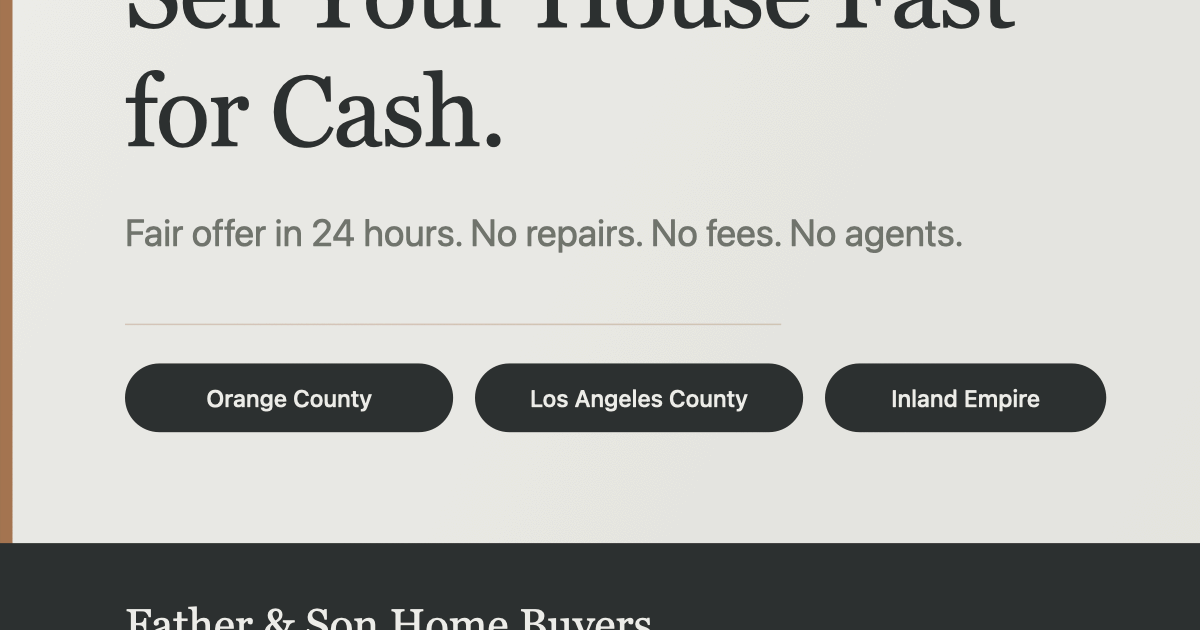
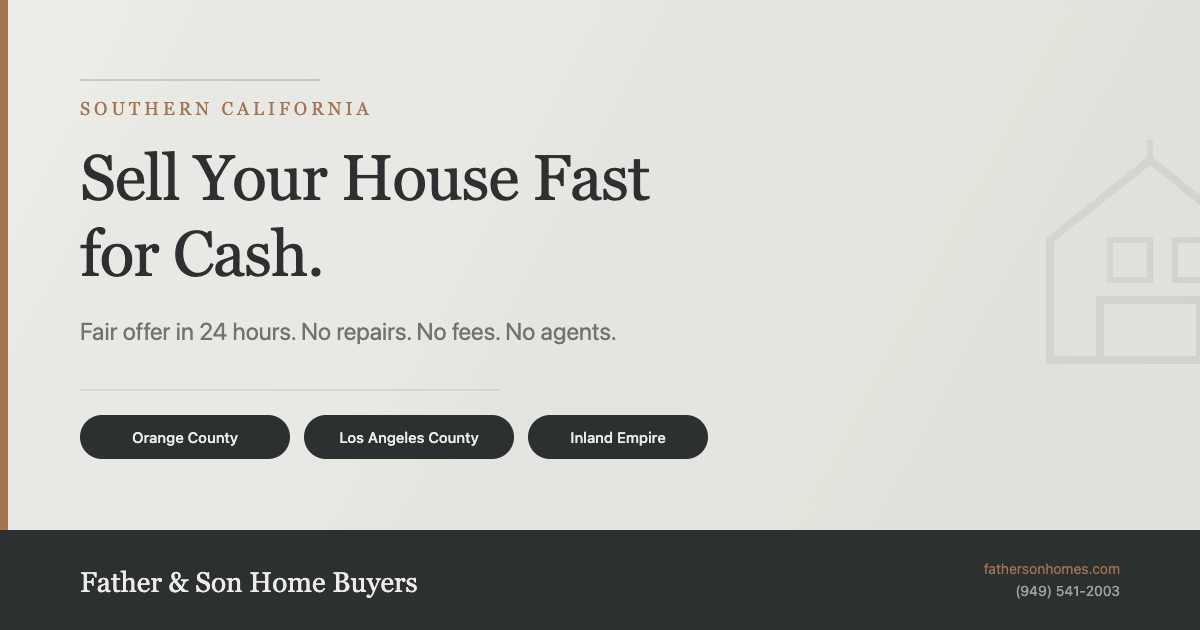
Fix cropped OG image and stop shipping the 3.9 MB photo original
The committed og-image.png was captured from og-image.svg at ~1.5x scale
without resizing the canvas, so it was a 1200x630 window onto an 1800x945
render: the "Sell Your House Fast" headline was sliced through at the top,
"Father & Son Home Buyers" at the bottom, and the eyebrow, house outline,
domain and phone number were off-frame entirely. That is the image every
link preview has been showing. Re-rendered at deviceScaleFactor 1 so the
whole design fits, then palette-compressed: 470 KB -> 28 KB.

The wedding photo in public/ is the high-res original behind the team
photos, not a stray file — but everything in public/ is copied verbatim
into the build, so it was publicly downloadable at a guessable URL and
shipped 3.9 MB on every deploy. Moved to design-assets/, which is not
served, and documented the convention.

diff --git a/design-assets/README.md b/design-assets/README.md
@@ -1,0 +1,15 @@
+# Design assets
+
+Source files for images used on the site. **Nothing here is deployed** — only
+`public/` is copied into the build output, so anything placed in `public/` is
+publicly downloadable whether or not a page references it.
+
+Keep originals here and commit the exported, compressed version to `public/`.
+
+| File | Exported to |
+| --- | --- |
+| `father-son-team-original.HEIC` | `public/father-son-team.jpg`, `public/team-father.jpg`, `public/team-son.jpg` |
+
+`public/og-image.png` is rendered from `public/og-image.svg` at exactly
+1200×630 with `deviceScaleFactor: 1`. Rendering at a higher scale factor
+clips the design instead of scaling it.
